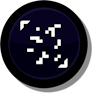
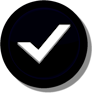
new badge stuff!!!

diff --git a/src/util/sources/Badges.cpp b/src/util/sources/Badges.cpp
@@ -14,14 +14,16 @@ std::map<Badges::BadgeID, std::string> Badges::badgeStringID{
     {Badges::BadgeID::CrewManager, "crew-manager"},
     {Badges::BadgeID::CrewMember, "crew-member"},
     {Badges::BadgeID::TeamManager, "team-manager"},
-    {Badges::BadgeID::TeamMember, "team-member"}};
+    {Badges::BadgeID::TeamMember, "team-member"},
+    {Badges::BadgeID::Collaborator, "collaborator"}};
 
 std::map<std::string, std::string> Badges::badgeSpriteName{
     {Badges::badgeStringID[Badges::BadgeID::Director], "crew-member.png"_spr},
     {Badges::badgeStringID[Badges::BadgeID::CrewManager], "crew-member.png"_spr},
     {Badges::badgeStringID[Badges::BadgeID::CrewManager], "crew-member.png"_spr},
     {Badges::badgeStringID[Badges::BadgeID::TeamManager], "team-member.png"_spr},
-    {Badges::badgeStringID[Badges::BadgeID::TeamMember], "team-member.png"_spr}};
+    {Badges::badgeStringID[Badges::BadgeID::TeamMember], "team-member.png"_spr},
+    {Badges::badgeStringID[Badges::BadgeID::Collaborator], "collaborator.png"_spr}};
 
 // badge button event
 void Badges::onInfoBadge(CCObject *sender)
@@ -97,6 +99,34 @@ void Badges::onInfoBadge(CCObject *sender)
                 if (btn2)
                 {
                     web::openLinkInBrowser("https://www.obsidianmg.cc/#crew");
+                };
+            });
+    }
+    else if (badge_ID == Badges::badgeStringID[Badges::BadgeID::Collaborator])
+    {
+        geode::createQuickPopup(
+            "OBSIDIAN Collaborator",
+            "This user is a <cg>collaborator</c> of <cp>OBSIDIAN</c> and/or <cp>ObsidianGD</c>. They've directly worked on the crew's or team's projects as an outsider.",
+            "OK", "Learn More",
+            [](auto, bool btn2)
+            {
+                if (btn2)
+                {
+                    web::openLinkInBrowser("https://www.obsidianmg.cc/#crew");
+                };
+            });
+    }
+    else
+    {
+        geode::createQuickPopup(
+            "Oops!",
+            "This badge has <cr>no available information</c>. This is likely unintentional, please report it as an issue in the mod's repository.",
+            "OK", "Report",
+            [](auto, bool btn2)
+            {
+                if (btn2)
+                {
+                    web::openLinkInBrowser("https://www.github.com/CubicCommunity/ObsidianGD-Badges/issues/");
                 };
             });
     };

diff --git a/src/main.cpp b/src/main.cpp
@@ -111,7 +111,7 @@ void checkForBadge(CCMenu *username_menu, float size, auto pointer, int accID)
 							 {
 			if (web::WebResponse *ogdReqRes = e->getValue())
 			{
-				std::string ogdWebResUnwr = ogdReqRes->string().unwrapOr("Uh oh!");
+				std::string ogdWebResUnwr = ogdReqRes->string().unwrapOr("404: Not Found");
 
 				if (getThisMod->getSettingValue<bool>("console")) log::debug("Processing remotely-obtained string '{}'...", ogdWebResUnwr.c_str());
 
@@ -124,12 +124,12 @@ void checkForBadge(CCMenu *username_menu, float size, auto pointer, int accID)
 					if (failed) {
 						if (getThisMod->getSettingValue<bool>("console")) log::error("Badge of ID '{}' failed validation test", ogdWebResUnwr.c_str());
 					} else {
-						getThisMod->setSavedValue(fmt::format("cache-badge-u{}", (int)accID), ogdWebResUnwr);
-
                     	if (getThisMod->getSettingValue<bool>("console")) log::debug("Fetched badge {} remotely", ogdWebResUnwr.c_str());
 					
                     	setNewBadge(ogdWebResUnwr, username_menu, size, pointer);
 					};
+					
+					getThisMod->setSavedValue(fmt::format("cache-badge-u{}", (int)accID), ogdWebResUnwr);
                 };
 
 				// save the user id if its set to only check once per web

diff --git a/src/util/Badges.hpp b/src/util/Badges.hpp
@@ -16,11 +16,12 @@ public:
         CrewManager = 2,
         CrewMember = 3,
         TeamManager = 4,
-        TeamMember = 5
+        TeamMember = 5,
+        Collaborator = 6
     };
 
     static std::map<BadgeID, std::string> badgeStringID;
     static std::map<std::string, std::string> badgeSpriteName;
-    
+
     void onInfoBadge(CCObject *sender);
 };

diff --git a/about.md b/about.md
@@ -3,7 +3,13 @@
 
 View a user's profile to see if they are a member of ObsidianGD!
 
-This mod fetches data for badges remotely from a repository that hosts web resources for the [ObsidianGDPS](https://www.obsidianmg.cc/gd-team/#gdps), to ensure that all information is up-to-date without the need of manual mod updates. You may also press the badge for more information on the member's role.
+This mod fetches data for badges remotely from a repository that hosts web resources for the [ObsidianGDPS](https://www.obsidianmg.cc/gd-team/#gdps), to ensure that all information is always up-to-date without the need of manual mod updates. You may also press the badge for more information on the member's role.
+
+### Badges
+###### What role each badge represents.
+- ![Icon](cheeseworks.obsidiangd_badges/crew-member.png&scale:0.5) **OBSIDIAN** Crew Member
+- ![Icon](cheeseworks.obsidiangd_badges/team-member.png&scale:0.5) **ObsidianGD** Team Member
+- ![Icon](cheeseworks.obsidiangd_badges/collaborator.png&scale:0.5) Collaborator
 
 ### Developers
 ###### This mod is developed and maintained by members of the [ObsidianGD](https://www.obsidianmg.cc/gd-team/#team) team.

diff --git a/README.md b/README.md
@@ -5,7 +5,7 @@ Adds a badge to ObsidianGD members' profiles.
 
 View a user's profile to see if they are a member of ObsidianGD!
 
-This mod fetches data for badges remotely from a repository that hosts web resources for the [ObsidianGDPS](https://www.obsidianmg.cc/gd-team/#gdps), to ensure that all information is up-to-date without the need of manual mod updates. You may also press the badge for more information on the member's role.
+This mod fetches data for badges remotely from a repository that hosts web resources for the [ObsidianGDPS](https://www.obsidianmg.cc/gd-team/#gdps), to ensure that all information is always up-to-date without the need of manual mod updates. You may also press the badge for more information on the member's role.
 
 ### Developers
 ###### This mod is developed and maintained by members of the [ObsidianGD](https://www.obsidianmg.cc/gd-team/#team) team.

diff --git a/changelog.md b/changelog.md
@@ -1,5 +1,16 @@
 # What's New
 
+### v1.1.6
+##### Badge additions.
+
+###### Changes
+- **Updated** all badges
+- **Added** `Collaborator` badge
+- **Fixed** issue with previous cache not being removed after the web request confirms user is ineligible for a badge
+- **Added** conditional error popup if a badge has no information about it
+
+---
+
 ### v1.1.5
 ##### Data storing.
 
